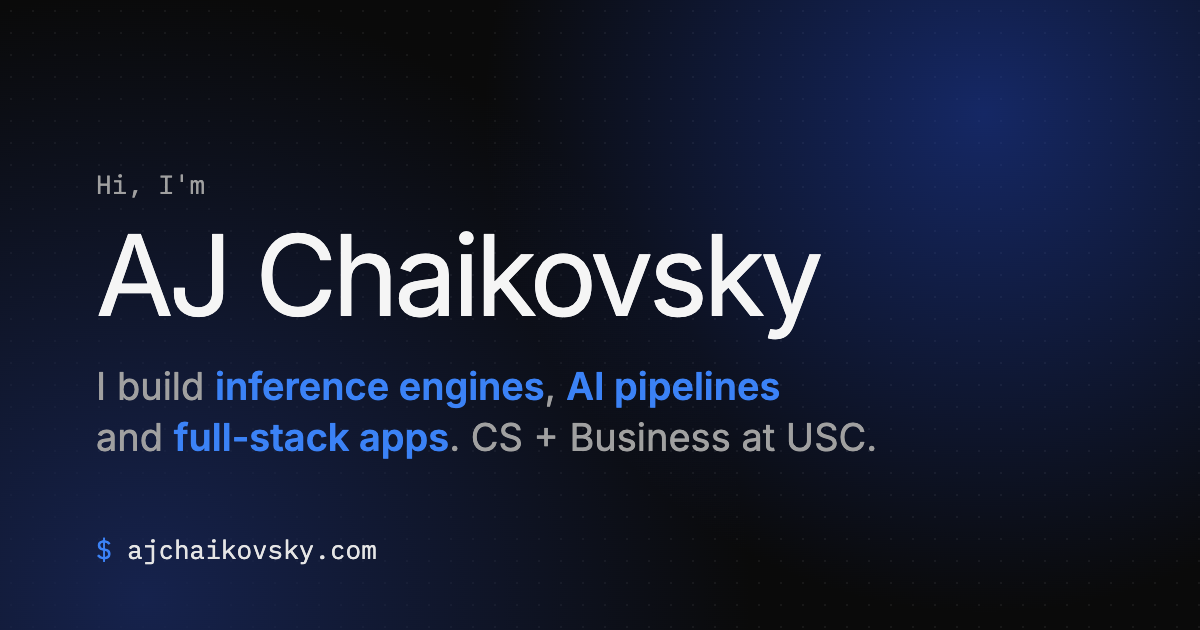
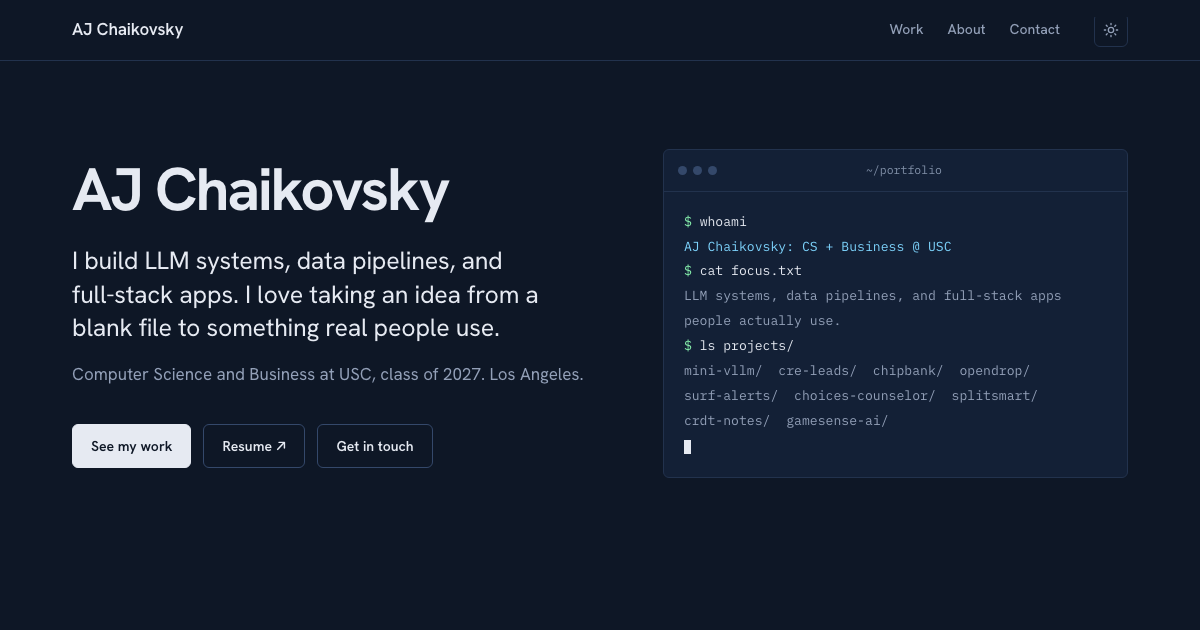
Add project screenshots and fix the critique's readability issues
- Screenshots for mini-vLLM (its README benchmark table), Surf Alerts
  (live landing page) and OpenDrop (main window from its repo)
- Faint text now passes 4.5:1 contrast in both themes
- More projects descriptions cut to two sentences each
- Result numbers show real values and count up only once fully in view
- Terminal project names no longer split at hyphens
- Shipped status dot, themed selection and scrollbar, new link preview

diff --git a/projects.js b/projects.js
@@ -7,7 +7,8 @@
 //   status       (required) "Shipped", "In active use", or "In progress"
 //   featured     true to show it as a large card at the top (keep this to 3–4 projects)
 //   tags         list of technologies used
-//   image        featured only: path to a screenshot, e.g. "images/my-project.png"
+//   image        path to a screenshot, e.g. "images/my-project.png" (shown 16:9, cropped from the top)
+//   imageAlt     what the screenshot shows, for screen readers (defaults to "Screenshot of <title>")
 //   metrics      featured only: 2–3 headline results shown large beside the description.
 //                Each is { value, unit, label }. A numeric value counts up when it scrolls into
 //                view; a text value ("Daily") is shown as is. Only use numbers you can back up.
@@ -32,6 +33,8 @@ const PROJECTS = [
       { value: 6.1, unit: "×", label: "the throughput of one-at-a-time generation" },
       { value: 0.29, unit: "s", label: "to first token, where static batching takes 10.3 s" },
     ],
+    image: "images/mini-vllm-benchmarks.png",
+    imageAlt: "Benchmark table: mini-vLLM against Hugging Face sequential and static batching at 1, 8 and 32 concurrent requests",
     tags: ["Python", "PyTorch", "CUDA", "FastAPI"],
     code: "https://github.com/AJChaikovsky/mini-vllm",
   },
@@ -67,8 +70,10 @@ const PROJECTS = [
     title: "OpenDrop",
     hook: "AirDrop for Mac, Windows, and Linux",
     description:
-      "AirDrop only works between Apple devices. OpenDrop lets any computers on the same network find each other over mDNS, pair with a 6-digit code, and send files directly over a small versioned protocol I designed, checked with SHA-256 before they're saved. A Rust core powers a Tauri desktop app, a CLI, and an MCP server so AI assistants can fetch files from your other machines.",
+      "AirDrop-style file sharing between Mac, Windows, and Linux: devices find each other over mDNS, pair with a 6-digit code, and send files directly, checked with SHA-256. A Rust core runs the desktop app, a CLI, and an MCP server for AI assistants.",
     status: "Shipped",
+    image: "images/opendrop.png",
+    imageAlt: "OpenDrop's main window listing two nearby devices, finished transfers and history",
     tags: ["Rust", "Tokio", "mDNS", "Tauri", "MCP"],
     code: "https://github.com/AJChaikovsky/OpenDrop",
     demo: "https://github.com/AJChaikovsky/OpenDrop/releases/latest",
@@ -78,8 +83,10 @@ const PROJECTS = [
     title: "Surf Alerts",
     hook: "An email when your surf spot is firing",
     description:
-      "Pick a break, set the wave height, swell period, and wind you want, and a background worker emails you when the forecast matches. A database constraint claims each alert's surf day before sending, so overlapping worker runs can never send the same email twice. Accounts are locked down with CSRF protection, login lockout, and per-device session revocation, all covered by tests.",
+      "Set the wave height, swell period, and wind you want at a SoCal break, and a background worker emails you when the forecast matches. A database constraint guarantees one email per alert per day, even when worker runs overlap.",
     status: "Shipped",
+    image: "images/surf-alerts.jpg",
+    imageAlt: "Surf Alerts landing page: \"Tell me when El Porto is firing\" beside the log-in form",
     tags: ["React", "TypeScript", "FastAPI", "PostgreSQL"],
     code: "https://github.com/AJChaikovsky/surf-alerts",
     demo: "https://surf-alerts.fly.dev",
@@ -88,7 +95,7 @@ const PROJECTS = [
     title: "Choices Counselor",
     hook: "Bilingual school-choice agents, built at LA Hacks 2026",
     description:
-      "A 3-person hackathon team built this Spanish/English multi-agent counselor that helps LAUSD families pick magnet programs, estimate admission points, and avoid costly application mistakes. The math runs in plain Python rules, not the LLM, over a 49-program dataset where every value cites its source. An orchestrator agent hands each question to specialists for points, paperwork, bus routes, and school facts, and organizations can pay a batch-report agent per family over the Fetch.ai testnet.",
+      "A 3-person LA Hacks team built this Spanish/English multi-agent counselor that helps LAUSD families pick magnet programs and estimate admission points. The math runs in plain Python rules over a 49-program dataset where every value cites its source.",
     status: "Shipped",
     tags: ["Python", "Fetch.ai", "Multi-agent"],
     code: "https://github.com/AJChaikovsky/LA-Hacks-project",
@@ -97,7 +104,7 @@ const PROJECTS = [
     title: "SplitSmart",
     hook: "Group expense splitting for USC students, on Android",
     description:
-      "A 3-person team project: an Android app that splits group expenses equally, by exact amounts, or by percentage, tracks who owes whom, and records settlements and monthly summaries. It's built in layers (screens, business logic, and Firebase repositories), stores data in Firestore behind security rules, and is covered by JUnit tests for the split math and Espresso UI tests.",
+      "A 3-person team's Android app for splitting group expenses equally, by exact amounts, or by percentage, with balances, settlements, and monthly summaries. Built in layers on Firebase and covered by JUnit and Espresso tests.",
     status: "Shipped",
     tags: ["Java", "Android", "Firebase", "Espresso"],
     code: "https://github.com/AJChaikovsky/SplitSmart",
@@ -106,7 +113,7 @@ const PROJECTS = [
     title: "crdt-notes",
     hook: "Offline-first collaborative notes, with the CRDT written from scratch",
     description:
-      "Collaborative editors have to merge edits made offline without losing anyone's work. I'm building the list CRDT behind a notes app from scratch, with two algorithms (RGA and Fugue) and a property-based test harness that simulates replicas receiving operations in random orders and checks they always converge. The sync server and editor come next.",
+      "The list CRDT behind an offline-first notes app, written from scratch with two algorithms (RGA and Fugue) and a property-based harness that checks replicas always converge. The sync server and editor come next.",
     status: "In progress",
     tags: ["TypeScript", "CRDTs", "fast-check", "Vitest"],
     code: "https://github.com/AJChaikovsky/crdt-notes",
@@ -115,7 +122,7 @@ const PROJECTS = [
     title: "GameSense AI",
     hook: "A real-time AI coach that watches you play",
     description:
-      "GameSense captures your screen, works out what's happening in the game, and shows short tips in a click-through overlay. It only watches and advises: it never sends inputs or reads game memory. I built an eval harness that scores vision models on labeled gameplay clips to find the fastest one that still gives good advice, starting with Counter-Strike 2 and Minecraft.",
+      "Watches your game and shows short coaching tips in a click-through overlay, without ever sending inputs or reading game memory. An eval harness scores vision models on labeled gameplay clips to find the fastest one that still gives good advice.",
     status: "In progress",
     tags: ["TypeScript", "Electron", "Python", "OpenCV"],
     code: "https://github.com/AJChaikovsky/gamesense-ai",

diff --git a/main.js b/main.js
@@ -61,7 +61,7 @@ function buildPanel(project) {
     const img = document.createElement("img");
     img.className = "panel-image";
     img.src = project.image;
-    img.alt = `Screenshot of ${project.title}`;
+    img.alt = project.imageAlt || `Screenshot of ${project.title}`;
     img.loading = "lazy";
     panel.appendChild(img);
   }
@@ -127,6 +127,8 @@ function countUp(node) {
   requestAnimationFrame(frame);
 }
 
+// The real values are in the page from the start, so a half-visible readout never shows a wrong
+// number. Once a readout is fully on screen, its numbers count up from zero to those values.
 if (!reduceMotion && "IntersectionObserver" in window) {
   const io = new IntersectionObserver(
     (entries) => {
@@ -136,14 +138,13 @@ if (!reduceMotion && "IntersectionObserver" in window) {
         io.unobserve(entry.target);
       });
     },
-    { threshold: 0.4 }
+    { threshold: 0.95 }
   );
-  document.querySelectorAll(".panel").forEach((panel) => {
-    // Start from zero only for panels that haven't been seen yet
-    panel.querySelectorAll(".metric-num[data-target]").forEach((n) => {
-      n.textContent = (0).toFixed(decimals(Number(n.dataset.target)));
-    });
-    io.observe(panel);
+  document.querySelectorAll(".readout").forEach((readout) => {
+    // A readout already on screen at load has nothing to reveal; leave it showing the real values
+    const r = readout.getBoundingClientRect();
+    if (r.top < window.innerHeight && r.bottom > 0) return;
+    io.observe(readout);
   });
 }
 
@@ -167,6 +168,14 @@ function terminalLine(line, full) {
   if (line.cmd) {
     div.appendChild(el("span", "prompt", "$ "));
     div.appendChild(el("span", "typed", full ? line.cmd : ""));
+  } else if (line.items) {
+    // A list (project folders): each item stays on one line so names never split at a hyphen
+    const out = el("span", line.cls || "");
+    line.items.forEach((item, k) => {
+      if (k) out.appendChild(document.createTextNode("  "));
+      out.appendChild(el("span", "nowrap", item));
+    });
+    div.appendChild(out);
   } else {
     div.appendChild(el("span", line.cls || "", line.out));
   }
@@ -175,8 +184,8 @@ function terminalLine(line, full) {
 
 function runTerminal() {
   const body = document.getElementById("terminal-body");
-  const names = PROJECTS.map((p) => slug(p.title) + "/").join("  ");
-  const lines = TERMINAL_LINES.map((l) => (l.out === "__PROJECTS__" ? { ...l, out: names } : l));
+  const names = PROJECTS.map((p) => slug(p.title) + "/");
+  const lines = TERMINAL_LINES.map((l) => (l.out === "__PROJECTS__" ? { cls: l.cls, items: names } : l));
   const cursor = el("span", "cursor");
   cursor.setAttribute("aria-hidden", "true");
 

diff --git a/styles.css b/styles.css
@@ -7,7 +7,7 @@
   --rule-strong: #34486a;
   --text: #e6eaf2;
   --muted: #93a0b8;
-  --faint: #66748f;
+  --faint: #8190a8;
   --signal: #7dd3fc;
   --status-active: #86efac;
   --status-progress: #fbbf24;
@@ -34,7 +34,7 @@
   --rule-strong: #b3bfcf;
   --text: #0e1726;
   --muted: #4b5870;
-  --faint: #6b7890;
+  --faint: #5f6c84;
   --signal: #0369a1;
   --status-active: #15803d;
   --status-progress: #b45309;
@@ -51,6 +51,12 @@
 html {
   scroll-behavior: smooth;
   -webkit-text-size-adjust: 100%;
+  scrollbar-color: var(--rule-strong) var(--bg);
+}
+
+::selection {
+  background: color-mix(in srgb, var(--signal) 32%, transparent);
+  color: var(--text);
 }
 
 body {
@@ -61,6 +67,7 @@ body {
   font-size: var(--step-0);
   line-height: 1.6;
   -webkit-font-smoothing: antialiased;
+  caret-color: var(--signal);
 }
 
 a {
@@ -293,6 +300,10 @@ a {
   color: var(--signal);
 }
 
+.terminal-body .nowrap {
+  white-space: nowrap;
+}
+
 .cursor {
   display: inline-block;
   width: 0.55em;
@@ -377,6 +388,10 @@ a {
   background: var(--faint);
 }
 
+.status-shipped::before {
+  background: var(--text);
+}
+
 .status-active::before {
   background: var(--status-active);
 }
@@ -444,6 +459,8 @@ a {
   width: 100%;
   aspect-ratio: 16 / 9;
   object-fit: cover;
+  object-position: top;
+  background: var(--bg);
   border: 1px solid var(--rule);
   border-radius: 4px;
 }

diff --git a/README.md b/README.md
@@ -21,7 +21,7 @@ It's a simple static site (plain HTML, CSS and JavaScript, no build step) hosted
    3–4 of them for the large panels, and give those 2–3 `metrics` (headline results). The rest go
    in the "More projects" list. Each needs a `status` ("Shipped", "In active use", or "In progress").
    The field list is at the top of the file.
-3. For screenshots, make an `images/` folder and add `image: "images/name.png"` to a featured project.
+3. Screenshots live in `images/`. Add `image: "images/name.png"` (and an `imageAlt` describing it) to any project.
    Put your resume at `anthony-chaikovsky-resume.pdf` and the "Resume" buttons appear automatically.
    `og-image.png` is the preview image shown when the link is shared; `favicon.svg` is the tab icon.
 4. Colors are at the top of `styles.css`: dark is the default, and the `[data-theme="light"]`
